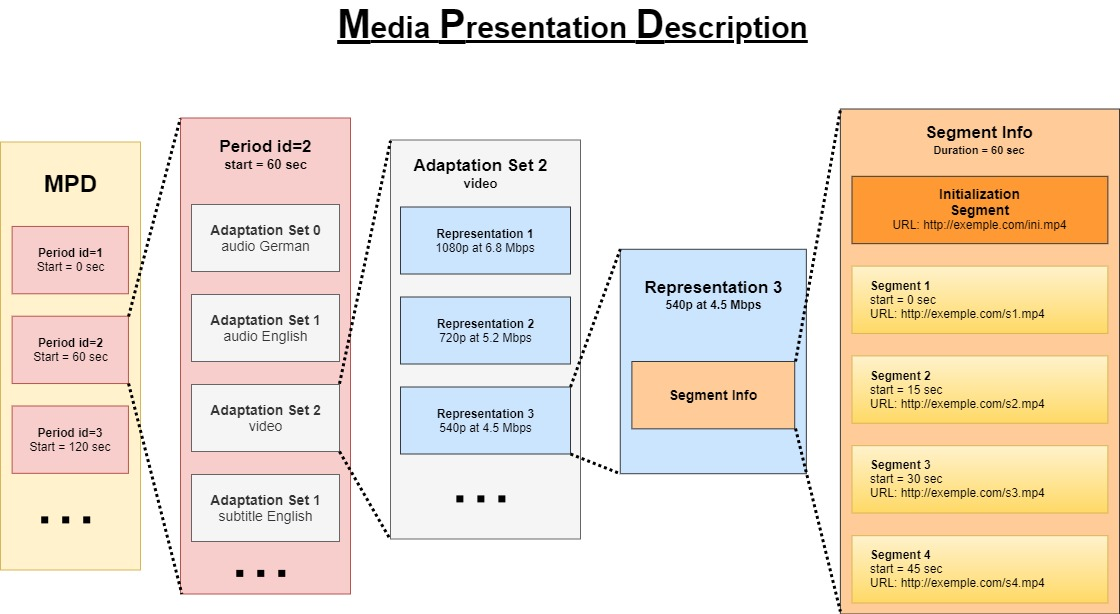
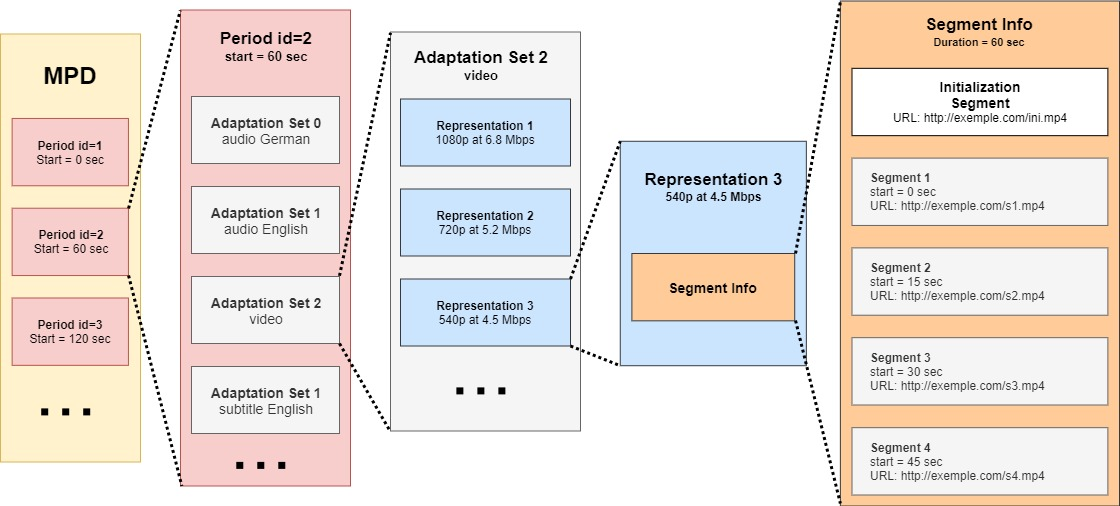
Typographie anglaise

diff --git a/website/index.html b/website/index.html
@@ -64,39 +64,36 @@
 					<h5>Protocol stack</h5>
                     <div class="texte-illustration">
                         <p class="flotted">
-                            <img src="../images/Protocol stack.jpg" alt="Protocol stack" width=450px>
+                            <img src="../images/Protocol stack.jpg" alt="Protocol stack" width=480px>
                         </p>
                         <p>
-                        The protocol stack of MPEG-DASH can be divided into two possibilities : one connected and one not connected. 
-                        The network layer is the same for both possibilities : IP. It is on the transport layer that the protocol stack splits in two : <br>
+                        The protocol stack of MPEG-DASH can be divided into two possibilities: one connected and one not connected. 
+                        The network layer is the same for both possibilities: IP. It is on the transport layer that the protocol stack splits in two: <br>
                         - The connected version uses TCP as transport layer, followed by TLS 1.2 for the security layer and finally HTTP/2 for the application layer. <br>
                         - The non-connected version uses UDP as transport layer, combined with QUIC which extends itself from the transport layer to the application layer, which is shared with HTTP/2 API.
                         <br>
                         <br>
                         For more information about IP, TCP, UDP, TLS, find it in the different RFCs: <br>
-                        - <a href="https://www.rfc-editor.org/info/rfc793">TCP : Transmission Control Protocol</a> <br>
-                        - <a href="https://www.rfc-editor.org/info/rfc768">UDP : User Datagram Protocol</a> <br>
-                        - <a href="https://www.rfc-editor.org/info/rfc5246">TLS v1.2 : Transport Layer Security version 1.2</a> <br>
-                        - <a href="https://www.rfc-editor.org/info/rfc791">IPv4 : Internet Protocol version 4</a> <br>
+						- <a href="https://www.rfc-editor.org/info/rfc791">IPv4: Internet Protocol version 4</a> <br>
+                        - <a href="https://www.rfc-editor.org/info/rfc793">TCP: Transmission Control Protocol</a> <br>
+                        - <a href="https://www.rfc-editor.org/info/rfc768">UDP: User Datagram Protocol</a> <br>
+                        - <a href="https://www.rfc-editor.org/info/rfc5246">TLS v1.2: Transport Layer Security version 1.2</a> <br>
+                        
                     
                         </p>
                     </div>
 
 					<h5>Media Presentation Description</h5>
-                    <div class="texte-illustration">
-                        <p class="flotteg">
-                            <img src="../images/MPD schema.jpg" alt="MPD" width=700px>
-                        </p>
-                        
+                        <img src="../images/MPD schema.jpg" alt="MPD" width=1000px>
+                        <br>
                         <p>
-                        Media Presentation Description (or MPD) is an XML document containing information about the data segments. It is divided into multiple parts : <br>
-                        - A period ID : determines the type of information (audio, video, subtitle) <br>
-                        - An adaptation set : determines the quality and bitrate of the segment <br>
-                        - A representation : contains all the segment information <br>
-                        - A segment information : contains the URL of each segment and provides more information about the segment in itself (beginning time, end time, …) <br>
+                        Media Presentation Description (or MPD) is an XML document containing information about the data segments. It is divided into multiple parts: <br>
+                        - A period ID: determines the type of information (audio, video, subtitle) <br>
+                        - An adaptation set: determines the quality and bitrate of the segment <br>
+                        - A representation: contains all the segment information <br>
+                        - A segment information: contains the URL of each segment and provides additional information about the segment in itself (beginning time, end time, …) <br>
                         With a MPD, it is easy to select the segment wanted, with the quality/bitrate/… needed.
                         </p>
-                    </div>
 
 					<h5>General Fonctionment</h5>
 
@@ -106,7 +103,7 @@
                         </p>
                         <p>
                                                 
-                        Playback of content via MPEG-DASH is as follows : 
+                        Playback of content via MPEG-DASH is as follows: 
 						</p>
 						<div class="texte-illustration">
 							<p class="flotteg">
@@ -180,7 +177,7 @@
             </div>
             <div class="card-body">
 	           	<div class="card-text">
-	           		URL MDP file : 
+	           		URL MDP file: 
 	           		<a href="http://rdmedia.bbc.co.uk/dash/ondemand/testcard/1/client_manifest-events.mpd">http://rdmedia.bbc.co.uk/dash/ondemand/testcard/1/client_manifest-events.mpd</a>
 	           	</div>
                 <br>
